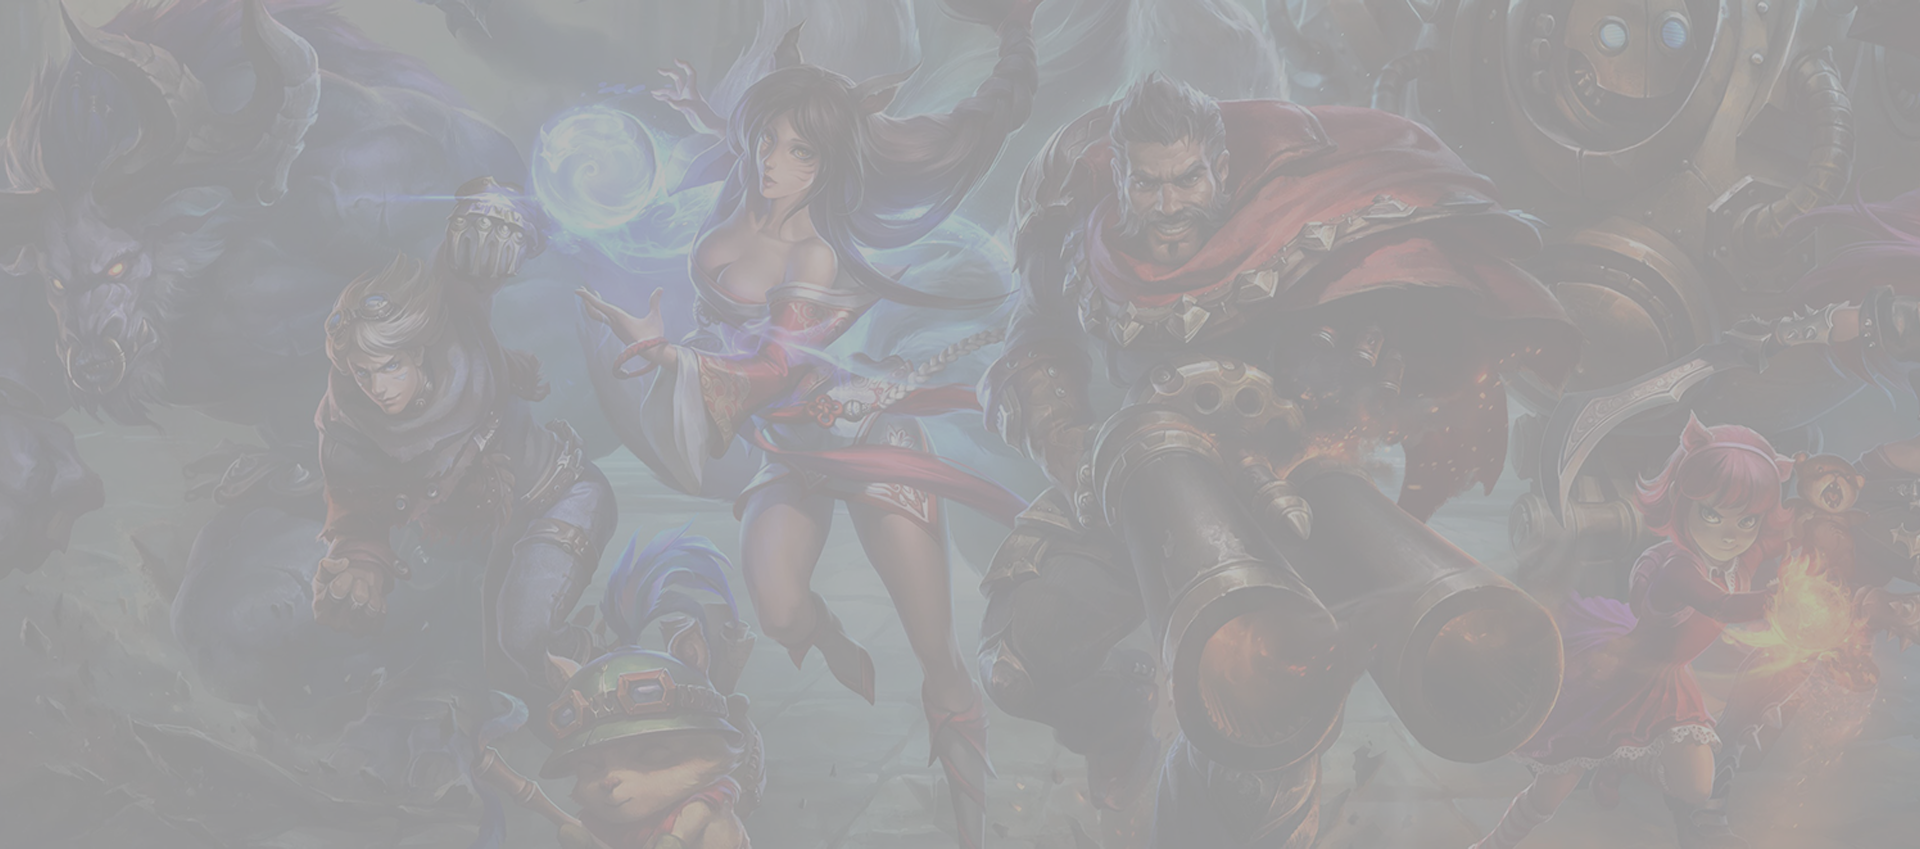
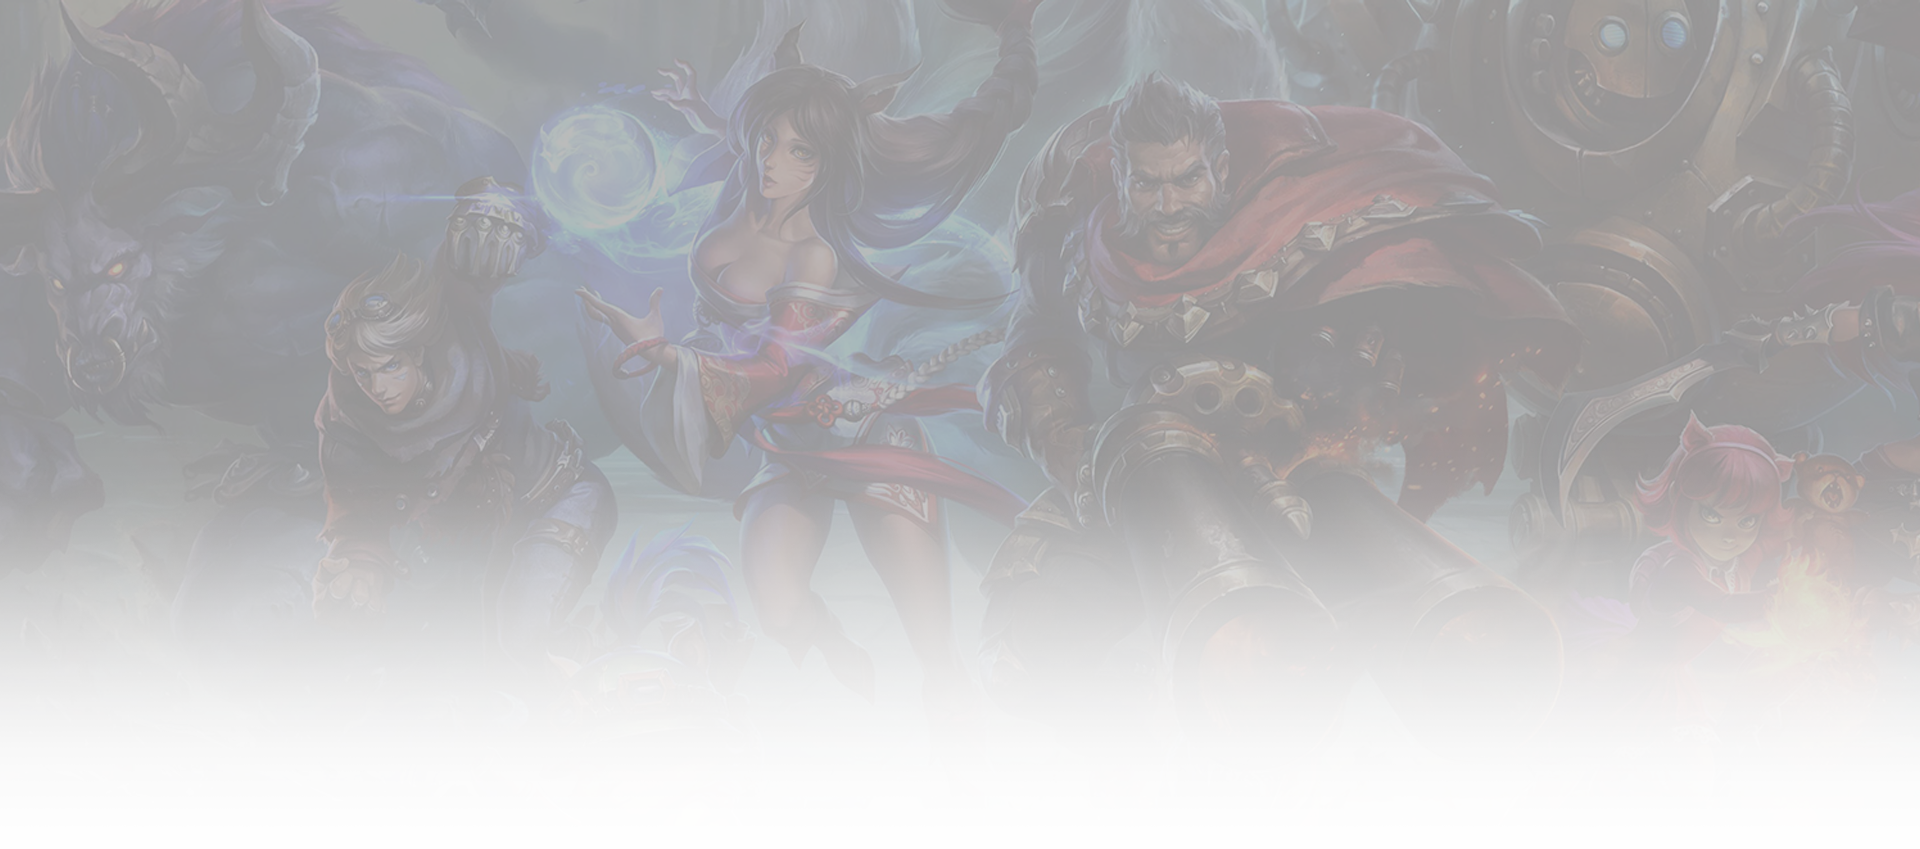
add article header bg and esport buttons

diff --git a/assets/css/app.css b/assets/css/app.css
@@ -82,8 +82,9 @@ button.btn-show {
 	background-color: var(--gh-blue);
 	border: 1px solid var(--gh-orange);
 	transition: background-color 200ms ease-in-out;
-	&:hover, &:focus, &:active, &.opened:hover { background-color: #000; }
-	&.opened { background-color: var(--gh-orange); }
+	&:focus, &:active {background-color: inherit;}
+	&:hover, &.opened:hover { background-color: var(--gh-orange); }
+	&.opened { background-color: var(--gh-orange); &:hover {background-color: #000;}}
 }
 
 .sectionBlue {

diff --git a/assets/css/blog.css b/assets/css/blog.css
@@ -78,6 +78,19 @@ input[type="text"].news__search {
 	position: relative;
 }
 
+.article__header {
+	position: relative;
+}
+.article__entete {
+	z-index: 100;
+}
+.article__entete2 {
+	z-index: -1;
+	position: absolute;
+	top: 0;
+	height: 100%;
+}
+
 .article__title {
 	width: 65%;
 	color: var(--gh-white);

diff --git a/assets/css/partner.css b/assets/css/partner.css
@@ -1,9 +1,11 @@
 .partner {
 	border-bottom: 3px solid var(--gh-red);
 
+	p {margin: 1rem 0 0;}
+
 	.row {
 		margin: 0;
-		padding: 2rem 0;
+		padding: 3rem 0;
 		display: flex;
 	}
 
@@ -31,7 +33,7 @@
 }
 
 .partner__logo {
-	max-height: 10rem;
+	max-width: 60%;
 	margin: auto;
 	padding: 0 2rem;
 }

diff --git a/assets/css/component/navbar.css b/assets/css/component/navbar.css
@@ -14,6 +14,7 @@ nav li {
 
 nav a, nav ul a {
 	color: var(--gh-blue);
+	text-transform: capitalize;
 	&.active {color: var(--gh-pink);}
 }
 
